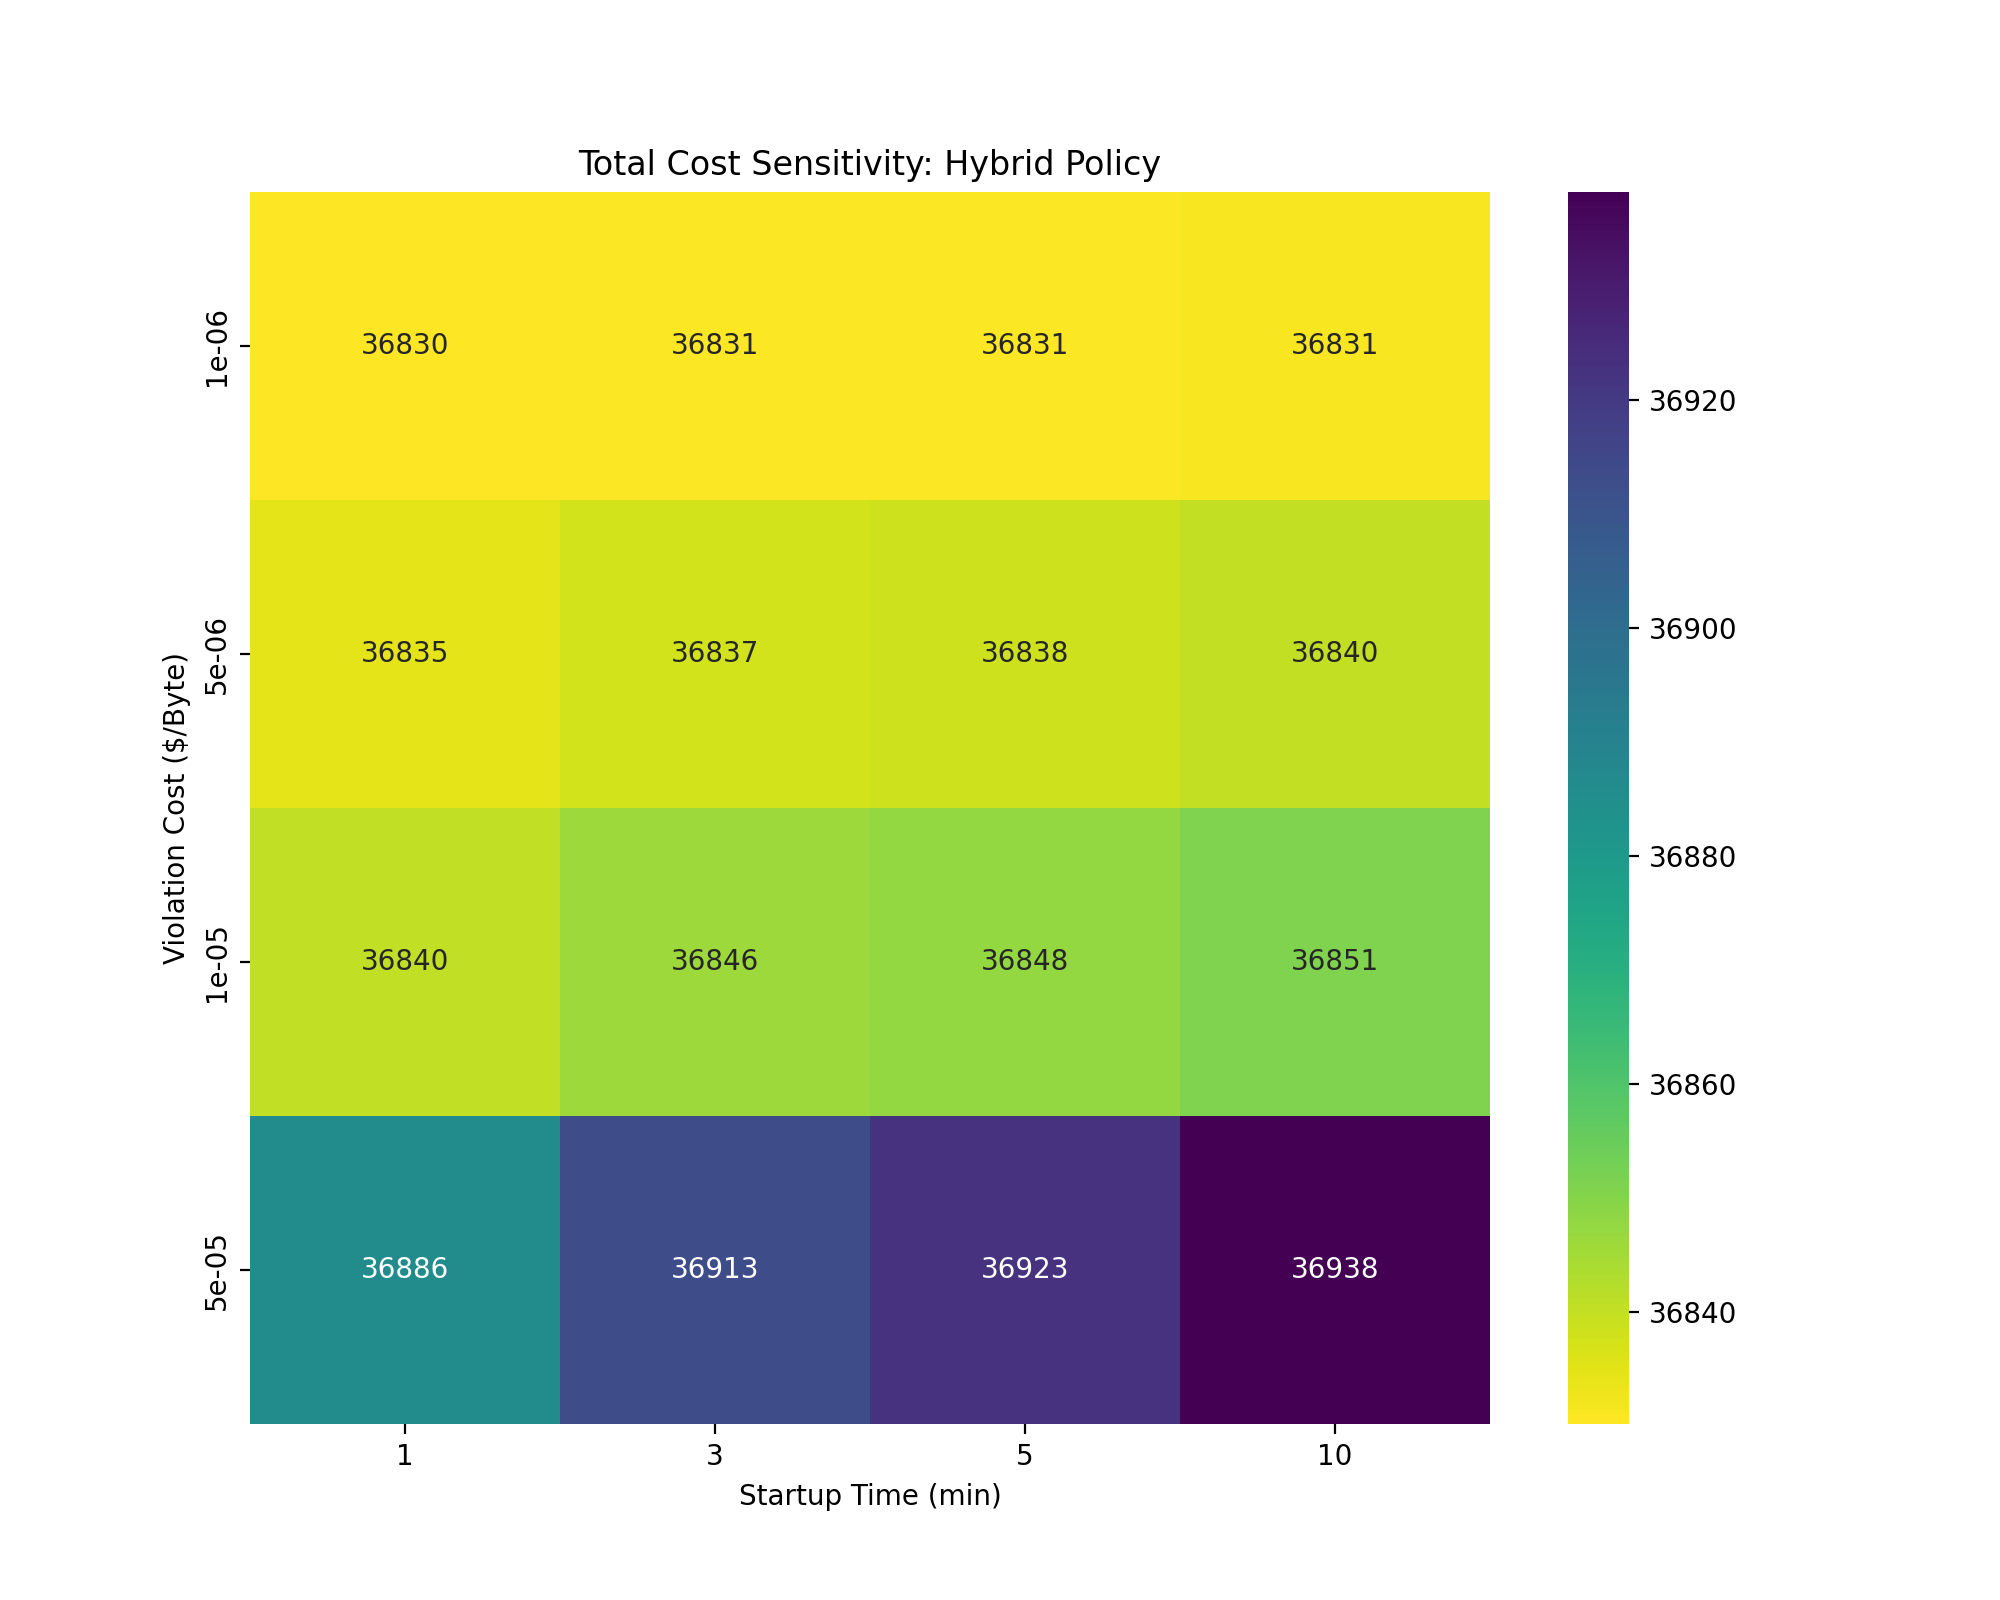
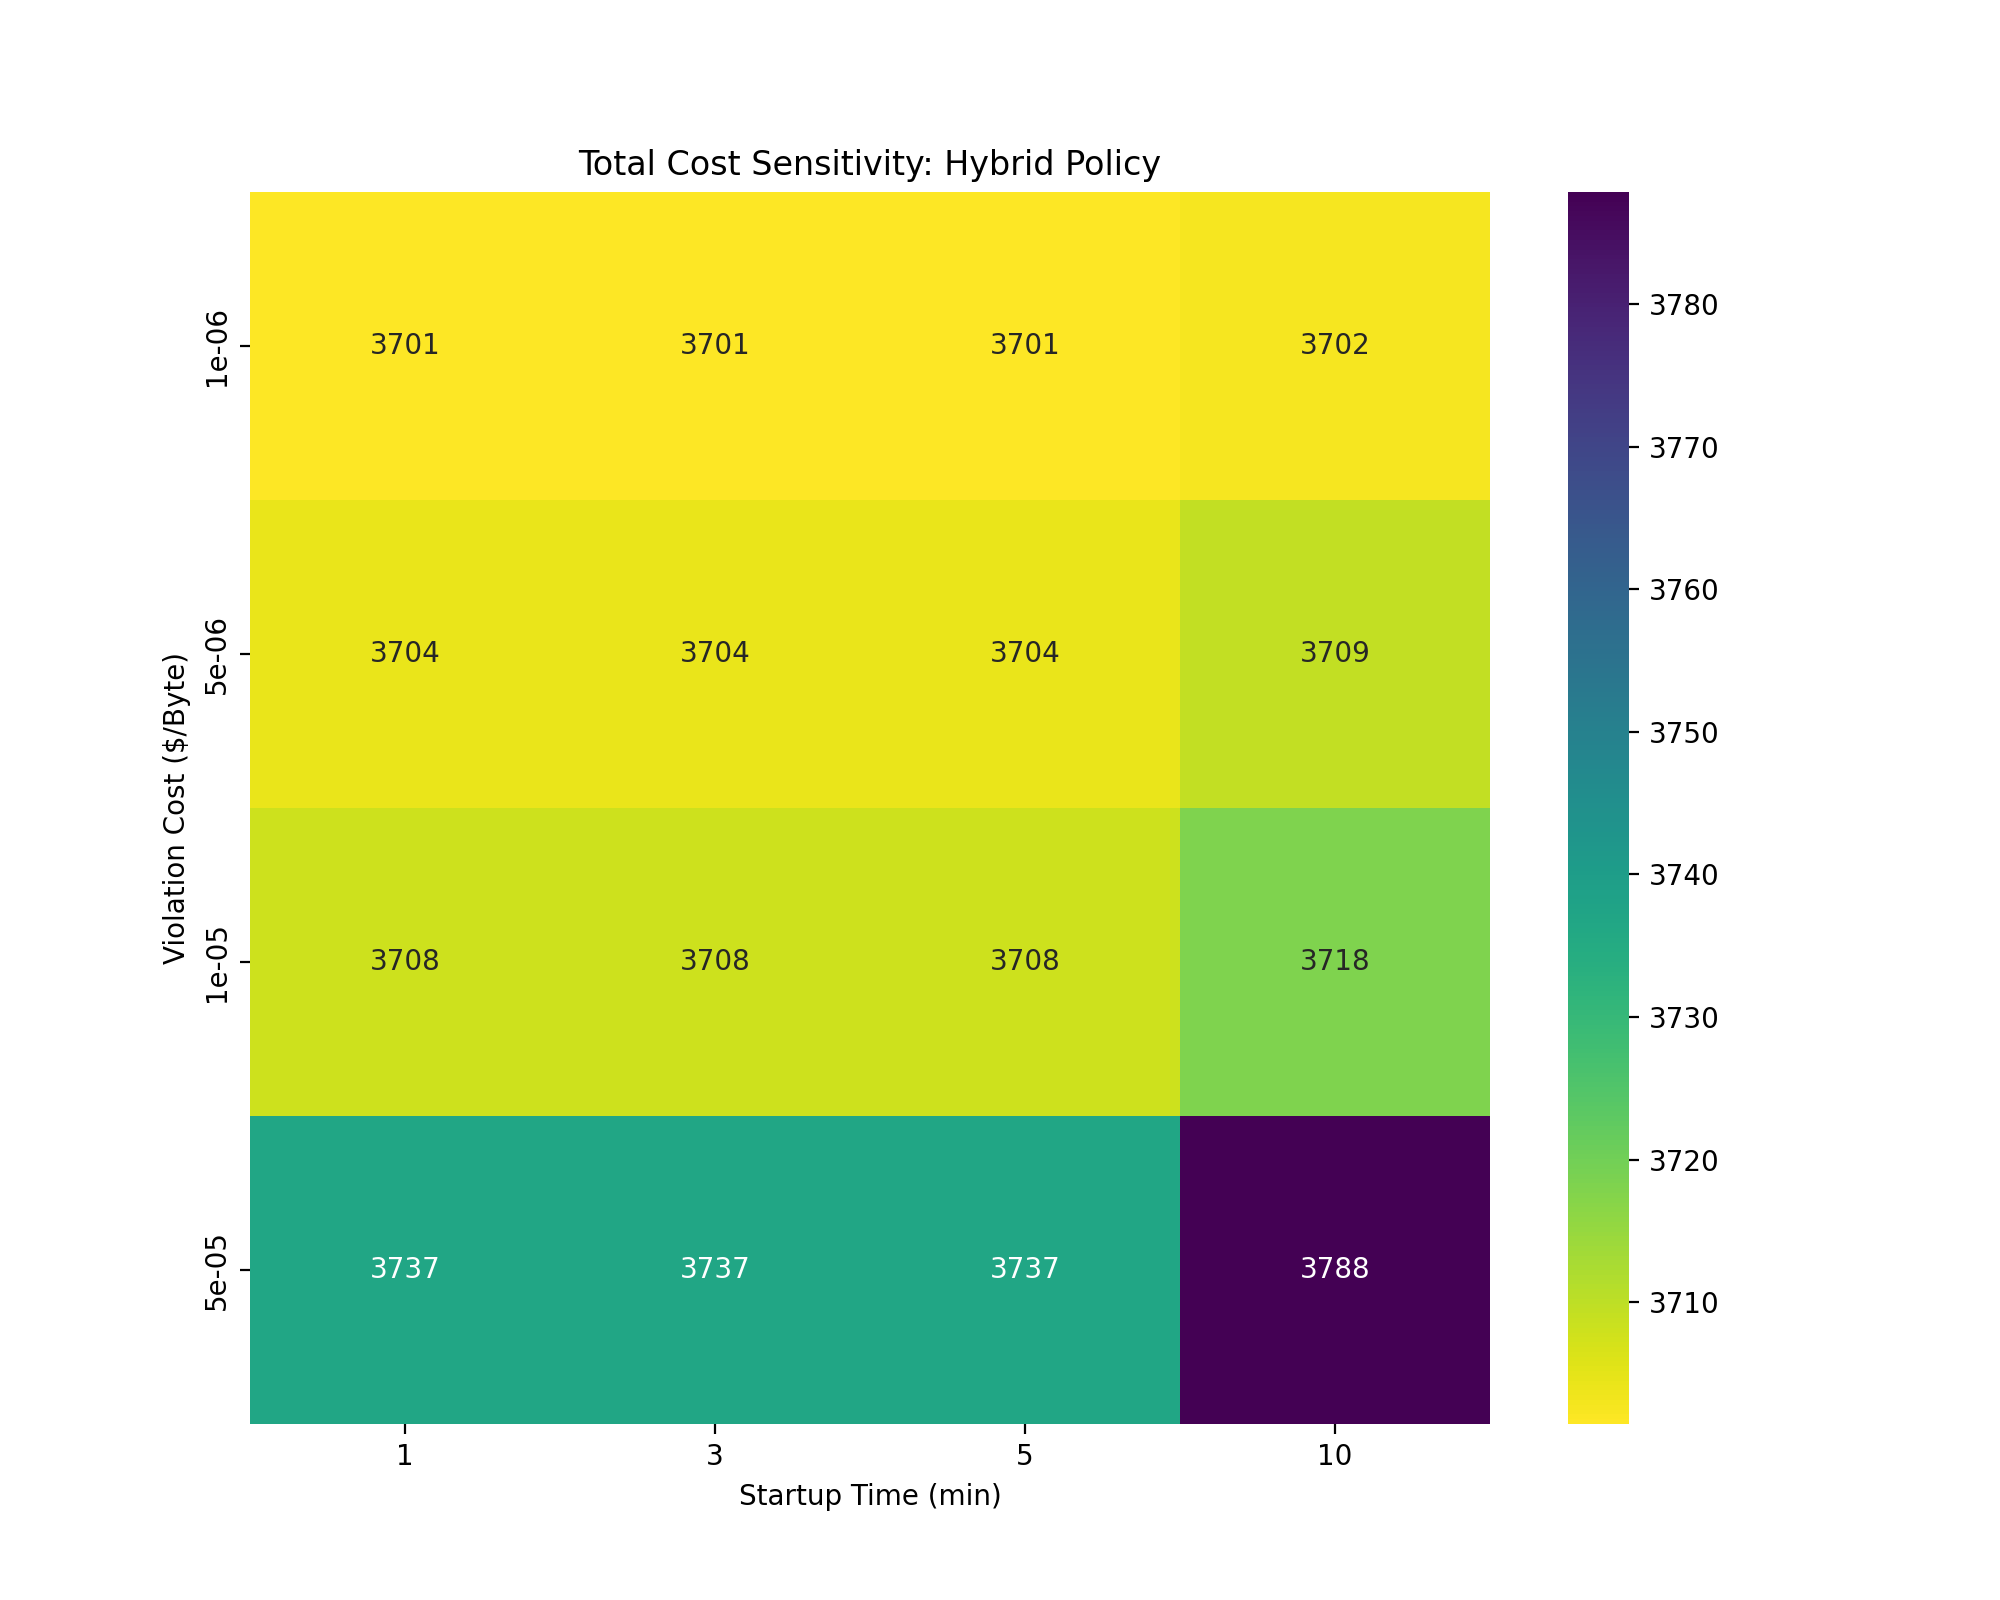
fix1

diff --git a/autoscaling/sensitivity_analysis.py b/autoscaling/sensitivity_analysis.py
@@ -2,7 +2,6 @@ import os
 import sys
 import yaml
 import pandas as pd
-import numpy as np
 import matplotlib.pyplot as plt
 import seaborn as sns
 from tqdm import tqdm
@@ -12,7 +11,7 @@ sys.path.append(os.path.dirname(os.path.abspath(__file__)))
 
 from cost_model import CostModel
 from simulator import Simulator
-from policies import HybridPolicy, ReactivePolicy
+from policies import HybridPolicy
 from run_simulation import load_data
 
 def run_sensitivity_analysis(config_path=None):
@@ -26,8 +25,22 @@ def run_sensitivity_analysis(config_path=None):
     # Load Data
     data_path = os.path.join(os.path.dirname(os.path.abspath(__file__)), "../data/processed/test.csv")
     load_series = load_data(data_path, interval="1min")
-    # Use Oracle predictions for sensitivity analysis to isolate cost param effects
-    predictions = load_series 
+    
+    # Try using Real Forecasts
+    from forecaster_integration import get_forecasts
+    full_data_path = os.path.abspath(data_path)
+         
+    forecasts, _ = get_forecasts(full_data_path, base_config)
+    
+    if len(forecasts) == 0:
+        print("Sensitivity Analysis: Forecasting failed or no data. Falling back to Oracle (Actuals).")
+        predictions = load_series
+    else:
+        print(f"Sensitivity Analysis: Using Real Forecast Model ({base_config['forecasting']['model']}).")
+        predictions = forecasts
+        # Align lengths if needed
+        if len(predictions) != len(load_series):
+             print(f"Warning: Forecast length {len(predictions)} != Data length {len(load_series)}. Truncating/Padding.") 
     
     # Parameters to sweep
     violation_costs = [1e-6, 5e-6, 1e-5, 5e-5] 
@@ -77,21 +90,18 @@ def run_sensitivity_analysis(config_path=None):
     print(df_results)
     
     # Plot Heatmap
-    try:
-        pivot_table = df_results.pivot(index="Violation Cost", columns="Startup Time", values="Total Cost")
+    pivot_table = df_results.pivot(index="Violation Cost", columns="Startup Time", values="Total Cost")
+    
+    plt.figure(figsize=(10, 8), dpi=200)
+    sns.heatmap(pivot_table, annot=True, fmt=".0f", cmap="viridis_r")
+    plt.title("Total Cost Sensitivity: Hybrid Policy")
+    plt.xlabel("Startup Time (min)")
+    plt.ylabel("Violation Cost ($/Byte)")
         
-        plt.figure(figsize=(10, 8), dpi=200)
-        sns.heatmap(pivot_table, annot=True, fmt=".0f", cmap="viridis_r")
-        plt.title("Total Cost Sensitivity: Hybrid Policy")
-        plt.xlabel("Startup Time (min)")
-        plt.ylabel("Violation Cost ($/Byte)")
+    output_path = "sensitivity_heatmap.png"
+    plt.savefig(output_path)
+    print(f"Heatmap saved to {output_path}")
         
-        output_path = "sensitivity_heatmap.png"
-        plt.savefig(output_path)
-        print(f"Heatmap saved to {output_path}")
-        
-    except Exception as e:
-        print(f"Plotting failed: {e}")
 
 if __name__ == "__main__":
     run_sensitivity_analysis()

diff --git a/autoscaling/run_simulation.py b/autoscaling/run_simulation.py
@@ -50,8 +50,7 @@ def main():
         config = yaml.safe_load(f)
         
     # Data Data
-    data_path = "data/processed/test.csv" # Adjust relative path
-    # If file doesn't exist, try absolute or synthetic
+    data_path = "data/processed/test.csv" 
     load_data_series = load_data(data_path, interval=config["simulation"]["interval"])
     
     # Cost Model
@@ -66,7 +65,7 @@ def main():
     }
     
     # Run DP Optimizer (Pre-compute)
-    print("Running DP Optimizer (this may take a moment)...")
+    print("Running DP Optimizer...")
     dp = DPOptimizer(config, cost_model, load_data_series)
     dp.optimize()
     dp_trajectory = dp.reconstruct_path()
@@ -95,32 +94,19 @@ def main():
     results = {}
     
     # Load Forecasts
-    print("Generating Forecasts (this may take a moment)...")
-    # Note: data_path is relative to script when using os.path logic, but get_forecasts takes direct path
-    # We used relative path "data/processed/train.csv" earlier.
-    # Let's verify path resolution in get_forecasts vs here.
-    # get_forecasts calls read_csv(path).
-    # ensure full path is passed if needed.
+    print("Generating Forecasts...")
     full_data_path = os.path.abspath(data_path)
-    
-    # Also we need to make sure 'forecasting' config exists
-    if "forecasting" not in config:
-        config["forecasting"] = {"model": "bilstm_attention", "window_size": 60}
         
     forecasts, actuals_aligned = get_forecasts(full_data_path, config)
     
-    # If forecasts are empty (failure), fallback to Oracle? or Zeros?
     if len(forecasts) == 0:
         print("Forecasting failed or no data. Falling back to Oracle (Actuals).")
         predictions = load_data_series
     else:
+        print(f"Using Real Forecast Model: {config.get('forecasting', {}).get('model', 'Unknown')}")
         predictions = forecasts
-        # Use aligned actuals for simulation to match length?
-        # Simulation usually runs on 'load_data_series'. 
-        # Check if lengths match.
         if len(predictions) != len(load_data_series):
              print(f"Warning: Forecast length {len(predictions)} != Data length {len(load_data_series)}. Truncating/Padding.")
-             # Usually forecaster_integration handles alignment to aggregated data. Just use what matches.
     
     for name in policies:
         print(f"Running {name}...")

diff --git a/autoscaling/dp_optimizer.py b/autoscaling/dp_optimizer.py
@@ -139,7 +139,6 @@ class DPOptimizer:
         Forward pass to build the optimal trajectory.
         """
         # Initial State
-        # Assume start with min servers? Or given?
         # Let's assume start at min servers, no cooldown, no prev action (0)
         s_current = self.min_servers
         c_current = 0

diff --git a/autoscaling/visualization/charts.py b/autoscaling/visualization/charts.py
@@ -1,5 +1,4 @@
 import matplotlib.pyplot as plt
-import pandas as pd
 import seaborn as sns
 import plotly.graph_objects as go
 import plotly.express as px

diff --git a/autoscaling/cost_model.py b/autoscaling/cost_model.py
@@ -1,5 +1,4 @@
 import yaml
-import numpy as np
 
 class CostModel:
     def __init__(self, config_path="config.yaml"):

diff --git a/autoscaling/policies.py b/autoscaling/policies.py
@@ -1,4 +1,3 @@
-import yaml
 import numpy as np
 
 class ScalingPolicy:
